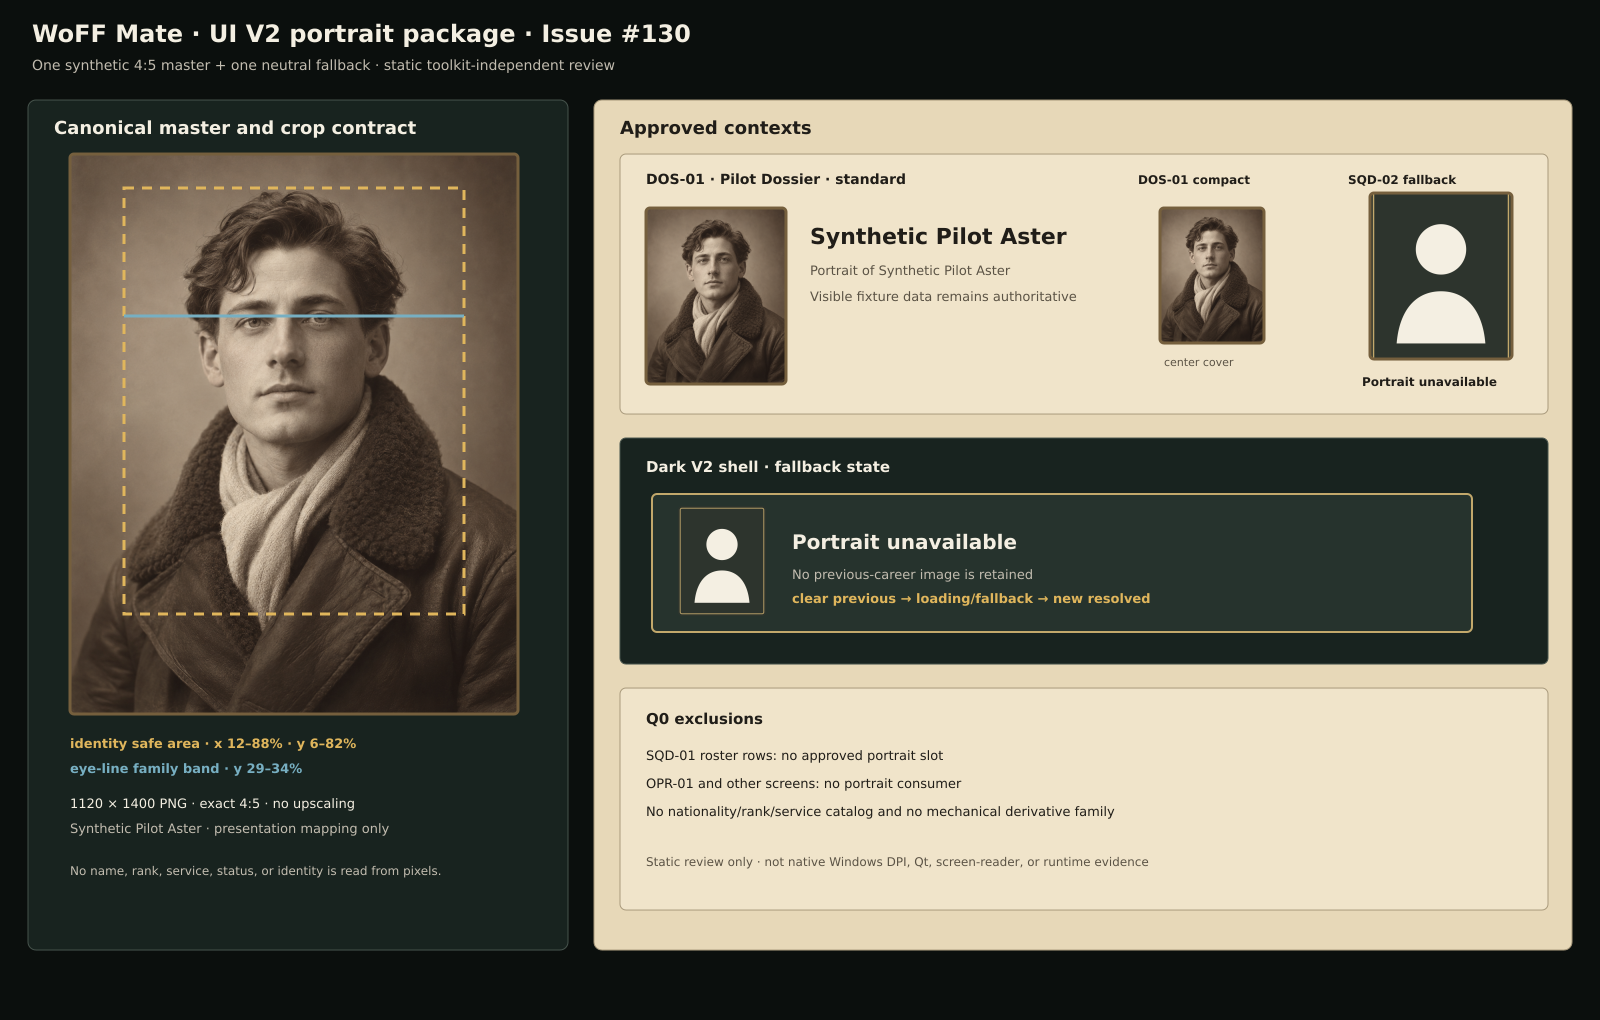
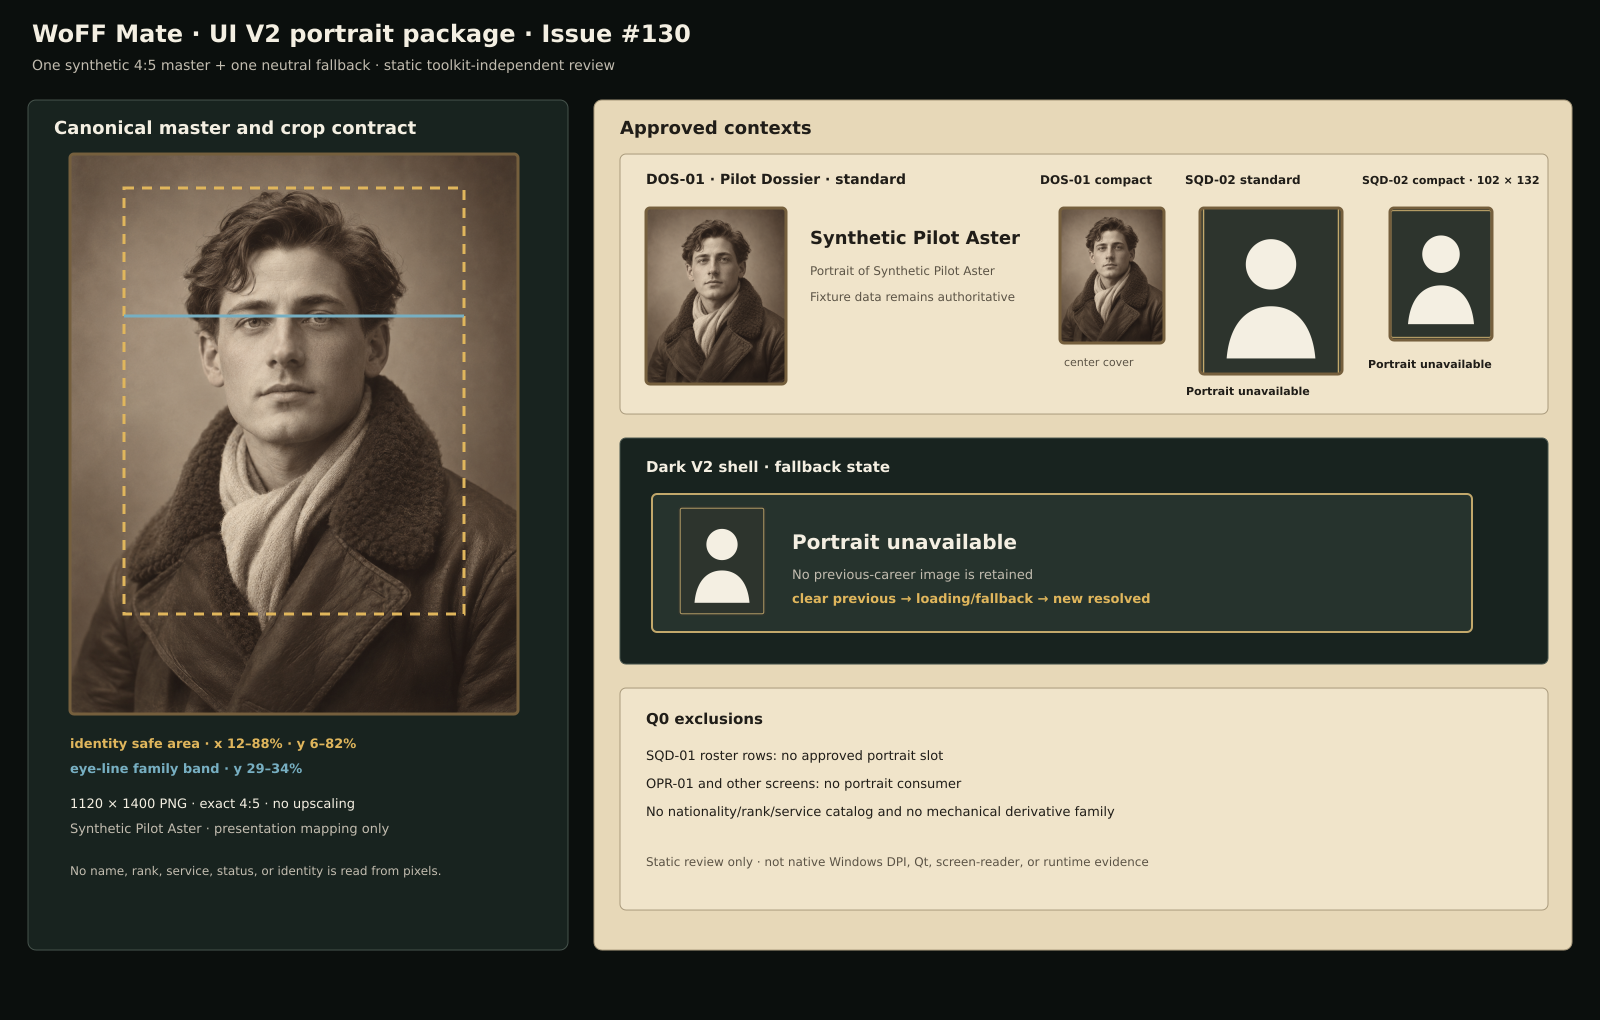
fix: close UI portrait provenance and evidence gaps (#130)

Changed region(s): [[0.5, 0.152, 0.9688, 0.3951]]

diff --git a/tests/test_ui_portrait_assets.py b/tests/test_ui_portrait_assets.py
@@ -5,6 +5,7 @@ import json
 import re
 import struct
 import sys
+import zlib
 from pathlib import Path
 from xml.etree import ElementTree as ET
 
@@ -13,6 +14,9 @@ REPOSITORY_ROOT = Path(__file__).resolve().parents[1]
 ASSET_ROOT = REPOSITORY_ROOT / "woff" / "assets" / "ui" / "portraits"
 EVIDENCE_ROOT = (
     REPOSITORY_ROOT / "docs" / "ui" / "evidence" / "ui-v2-portraits-2026-09-24"
+)
+SOURCE_ORIGINAL = (
+    EVIDENCE_ROOT / "source" / "ui_portrait_synthetic_aster_original.png"
 )
 FIXTURE_CATALOG = REPOSITORY_ROOT / "woff" / "tests" / "fixtures" / "ui_states" / "catalog.json"
 SVG_NAMESPACE = "{http://www.w3.org/2000/svg}"
@@ -58,6 +62,97 @@ def _png_chunks(path: Path) -> tuple[tuple[int, int, int, int, int], list[str]]:
     assert offset == len(payload)
     assert ihdr is not None
     return ihdr, chunks
+
+
+def _png_chunk_payloads(path: Path) -> dict[str, list[bytes]]:
+    payload = path.read_bytes()
+    offset = 8
+    chunks: dict[str, list[bytes]] = {}
+    while offset < len(payload):
+        length = struct.unpack(">I", payload[offset : offset + 4])[0]
+        kind = payload[offset + 4 : offset + 8].decode("ascii")
+        chunks.setdefault(kind, []).append(payload[offset + 8 : offset + 8 + length])
+        offset += 12 + length
+    return chunks
+
+
+def _png_rgb_rows(path: Path) -> tuple[bytes, ...]:
+    payload = path.read_bytes()
+    offset = 8
+    width = height = 0
+    compressed = bytearray()
+    while offset < len(payload):
+        length = struct.unpack(">I", payload[offset : offset + 4])[0]
+        kind = payload[offset + 4 : offset + 8]
+        data = payload[offset + 8 : offset + 8 + length]
+        if kind == b"IHDR":
+            width, height, bit_depth, color_type, _, _, interlace = struct.unpack(
+                ">IIBBBBB", data
+            )
+            assert (bit_depth, color_type, interlace) == (8, 2, 0)
+        elif kind == b"IDAT":
+            compressed.extend(data)
+        offset += 12 + length
+
+    stride = width * 3
+    decoded = zlib.decompress(compressed)
+    assert len(decoded) == height * (stride + 1)
+    rows: list[bytes] = []
+    prior = bytearray(stride)
+    cursor = 0
+    for _ in range(height):
+        filter_type = decoded[cursor]
+        cursor += 1
+        raw = decoded[cursor : cursor + stride]
+        cursor += stride
+        row = bytearray(stride)
+        for index, value in enumerate(raw):
+            left = row[index - 3] if index >= 3 else 0
+            above = prior[index]
+            upper_left = prior[index - 3] if index >= 3 else 0
+            if filter_type == 0:
+                predictor = 0
+            elif filter_type == 1:
+                predictor = left
+            elif filter_type == 2:
+                predictor = above
+            elif filter_type == 3:
+                predictor = (left + above) // 2
+            else:
+                assert filter_type == 4
+                candidate = left + above - upper_left
+                distances = (
+                    abs(candidate - left),
+                    abs(candidate - above),
+                    abs(candidate - upper_left),
+                )
+                predictor = (left, above, upper_left)[distances.index(min(distances))]
+            row[index] = (value + predictor) & 0xFF
+        rows.append(bytes(row))
+        prior = row
+    return tuple(rows)
+
+
+def test_common_manifest_fields_follow_the_ui_asset_package_convention() -> None:
+    manifest = _manifest()
+    icon_manifest = json.loads(
+        (REPOSITORY_ROOT / "woff" / "assets" / "ui" / "icons" / "manifest.json").read_text(
+            encoding="utf-8"
+        )
+    )
+    assert manifest["schema_version"] == icon_manifest["schema_version"] == 1
+    assert manifest["package_id"] == "woff-mate-ui-v2-portraits"
+    assert manifest["package_id"] != icon_manifest["package_id"]
+    assert "manifest_version" not in manifest
+    for field in (
+        "canonical_source_type",
+        "source",
+        "theme_contract",
+        "shared_accessibility",
+        "prohibited_domain_uses",
+    ):
+        assert manifest[field]
+        assert icon_manifest[field]
 
 
 def test_q0_consumers_and_minimum_inventory_are_pinned() -> None:
@@ -120,6 +215,30 @@ def test_canonical_png_is_valid_exact_4_by_5_and_metadata_clean() -> None:
     assert compression == 0
     assert chunks[0] == "IHDR" and chunks[-1] == "IEND"
     assert not ({"tEXt", "zTXt", "iTXt", "tIME", "eXIf", "iCCP"} & set(chunks))
+
+
+def test_exact_generated_source_is_retained_and_matches_the_canonical_crop() -> None:
+    source = _manifest()["source"]
+    assert isinstance(source, dict)
+    assert source["id"] == "source.synthetic.aster.original"
+    assert source["synthetic"] is True
+    assert source["path"] == SOURCE_ORIGINAL.relative_to(REPOSITORY_ROOT).as_posix()
+    assert source["dimensions"] == [1122, 1402]
+    assert source["canonical_master_dimensions"] == [1120, 1400]
+    assert hashlib.sha256(SOURCE_ORIGINAL.read_bytes()).hexdigest() == source["sha256"]
+
+    canonical = ASSET_ROOT / "ui_portrait_synthetic_aster_master.png"
+    assert hashlib.sha256(canonical.read_bytes()).hexdigest() == source["canonical_master_sha256"]
+    source_ihdr, source_chunks = _png_chunks(SOURCE_ORIGINAL)
+    assert source_ihdr[:3] == (1122, 1402, 8)
+    assert source_ihdr[3] == 2
+    assert not ({"tEXt", "zTXt", "iTXt", "tIME", "eXIf", "iCCP"} & set(source_chunks))
+
+    source_rows = _png_rgb_rows(SOURCE_ORIGINAL)
+    canonical_rows = _png_rgb_rows(canonical)
+    assert len(source_rows) == 1402
+    assert len(canonical_rows) == 1400
+    assert tuple(row[3:-3] for row in source_rows[1:-1]) == canonical_rows
 
 
 def test_fallback_is_neutral_self_contained_vector_geometry() -> None:
@@ -190,6 +309,7 @@ def test_package_checksums_cover_every_delivered_file() -> None:
 def test_static_evidence_is_reproducible_and_truthfully_bounded() -> None:
     checksums = _checksums(EVIDENCE_ROOT / "SHA256SUMS")
     expected_dimensions = {
+        "source/ui_portrait_synthetic_aster_original.png": (1122, 1402),
         "contact-sheet.png": (1600, 1020),
         "scaling-matrix.png": (1500, 1310),
     }
@@ -200,10 +320,12 @@ def test_static_evidence_is_reproducible_and_truthfully_bounded() -> None:
         ihdr, chunks = _png_chunks(path)
         assert ihdr[:2] == expected_dimensions[relative]
         assert chunks[0] == "IHDR" and chunks[-1] == "IEND"
-        payload = path.read_bytes().lower()
-        assert b"/workspace/" not in payload
-        assert b"\\users\\" not in payload
-        assert b"c:\\" not in payload
+        chunk_payloads = _png_chunk_payloads(path)
+        assert not ({"zTXt", "iTXt", "eXIf"} & set(chunk_payloads))
+        text_metadata = b"\n".join(chunk_payloads.get("tEXt", [])).lower()
+        assert b"/workspace/" not in text_metadata
+        assert b"\\users\\" not in text_metadata
+        assert b"c:\\" not in text_metadata
 
     readme = (EVIDENCE_ROOT / "README.md").read_text(encoding="utf-8")
     for profile in ("100%", "125%", "150%", "200%"):
@@ -215,6 +337,8 @@ def test_static_evidence_is_reproducible_and_truthfully_bounded() -> None:
     assert "TemporaryDirectory" in generator
     assert 'shutil.which("inkscape")' in generator
     assert "image_gen" not in generator
+    assert '"SQD-02 compact · 102 × 132"' in generator
+    assert "not exhaustive" in generator
 
 
 def test_package_data_and_runtime_dependencies_preserve_boundary() -> None:
@@ -238,3 +362,4 @@ def test_package_data_and_runtime_dependencies_preserve_boundary() -> None:
         "assets/ui/portraits/SHA256SUMS",
     ):
         assert pattern in package_data
+    assert "docs/ui/evidence" not in " ".join(package_data)

diff --git a/scripts/generate_ui_portrait_evidence.py b/scripts/generate_ui_portrait_evidence.py
@@ -141,8 +141,9 @@ def _contact_sheet(master_href: str, fallback_href: str) -> ET.Element:
     _sources(defs, master_href, fallback_href)
     _clip(defs, "master", 70, 154, 448, 560)
     _clip(defs, "dossier", 646, 208, 140, 176)
-    _clip(defs, "compact", 1160, 208, 104, 135)
-    _clip(defs, "fallback", 1370, 193, 142, 166)
+    _clip(defs, "compact", 1060, 208, 104, 135)
+    _clip(defs, "sqd-standard", 1200, 208, 142, 166)
+    _clip(defs, "sqd-compact", 1390, 208, 102, 132)
     _clip(defs, "dark-fallback", 678, 506, 88, 110)
 
     _add(root, "rect", width=width, height=height, fill="#0B0F0D")
@@ -168,19 +169,24 @@ def _contact_sheet(master_href: str, fallback_href: str) -> ET.Element:
     _text(root, "DOS-01 · Pilot Dossier · standard", 646, 184, fill="#201D18", size=14, weight=600)
     _asset(root, "master-source", 646, 208, 140, 176, clip_id="dossier")
     _frame(root, 646, 208, 140, 176)
-    _text(root, "Synthetic Pilot Aster", 810, 244, fill="#201D18", size=22, weight=600)
-    _text(root, "Portrait of Synthetic Pilot Aster", 810, 275, fill="#5B5345", size=13)
-    _text(root, "Visible fixture data remains authoritative", 810, 301, fill="#5B5345", size=13)
+    _text(root, "Synthetic Pilot Aster", 810, 244, fill="#201D18", size=18, weight=600)
+    _text(root, "Portrait of Synthetic Pilot Aster", 810, 275, fill="#5B5345", size=12)
+    _text(root, "Fixture data remains authoritative", 810, 301, fill="#5B5345", size=12)
 
-    _text(root, "DOS-01 compact", 1138, 184, fill="#201D18", size=12, weight=600)
-    _asset(root, "master-source", 1160, 208, 104, 135, clip_id="compact")
-    _frame(root, 1160, 208, 104, 135)
-    _text(root, "center cover", 1164, 366, fill="#5B5345", size=11)
+    _text(root, "DOS-01 compact", 1040, 184, fill="#201D18", size=12, weight=600)
+    _asset(root, "master-source", 1060, 208, 104, 135, clip_id="compact")
+    _frame(root, 1060, 208, 104, 135)
+    _text(root, "center cover", 1064, 366, fill="#5B5345", size=11)
 
-    _text(root, "SQD-02 fallback", 1348, 184, fill="#201D18", size=12, weight=600)
-    _asset(root, "fallback-source", 1370, 193, 142, 166, clip_id="fallback")
-    _frame(root, 1370, 193, 142, 166)
-    _text(root, "Portrait unavailable", 1362, 386, fill="#201D18", size=12, weight=600)
+    _text(root, "SQD-02 standard", 1185, 184, fill="#201D18", size=12, weight=600)
+    _asset(root, "fallback-source", 1200, 208, 142, 166, clip_id="sqd-standard")
+    _frame(root, 1200, 208, 142, 166)
+    _text(root, "Portrait unavailable", 1186, 395, fill="#201D18", size=11, weight=600)
+
+    _text(root, "SQD-02 compact · 102 × 132", 1362, 184, fill="#201D18", size=11, weight=600)
+    _asset(root, "fallback-source", 1390, 208, 102, 132, clip_id="sqd-compact")
+    _frame(root, 1390, 208, 102, 132)
+    _text(root, "Portrait unavailable", 1368, 368, fill="#201D18", size=11, weight=600)
 
     _add(root, "rect", x=620, y=438, width=928, height=226, rx=6, fill="#18231F", stroke="#46534C")
     _text(root, "Dark V2 shell · fallback state", 646, 472, fill="#F4EFE2", size=15, weight=600)
@@ -212,7 +218,7 @@ def _scaling_matrix(master_href: str, fallback_href: str) -> ET.Element:
 
     _add(root, "rect", width=width, height=height, fill="#111614")
     _text(root, "Static Windows logical-profile equivalents", 32, 42, fill="#F4EFE2", size=24, weight=600)
-    _text(root, "140 × 176 logical DOS-01 slot scaled to 100 / 125 / 150 / 200%; no native DPI claim", 32, 72, fill="#C2BCAF", size=14)
+    _text(root, "Representative DOS-01 standard slot only · 100 / 125 / 150 / 200% static equivalents · not exhaustive", 32, 72, fill="#C2BCAF", size=14)
     _text(root, "Resolved synthetic exemplar", 254, 106, fill="#F4EFE2", size=15, weight=600)
     _text(root, "Neutral fallback", 802, 106, fill="#F4EFE2", size=15, weight=600)
 
@@ -257,14 +263,20 @@ def _write_png(path: Path, root: ET.Element) -> None:
 
 
 def _write_checksums(paths: tuple[Path, ...]) -> None:
-    lines = [f"{hashlib.sha256(path.read_bytes()).hexdigest()}  {path.name}" for path in paths]
+    lines = [
+        f"{hashlib.sha256(path.read_bytes()).hexdigest()}  {path.relative_to(EVIDENCE_ROOT).as_posix()}"
+        for path in paths
+    ]
     (EVIDENCE_ROOT / "SHA256SUMS").write_text("\n".join(lines) + "\n", encoding="ascii")
 
 
 def main() -> None:
     master = ASSET_ROOT / "ui_portrait_synthetic_aster_master.png"
     fallback = ASSET_ROOT / "ui_portrait_unavailable.svg"
-    for required in (master, fallback):
+    original_source = (
+        EVIDENCE_ROOT / "source" / "ui_portrait_synthetic_aster_original.png"
+    )
+    for required in (master, fallback, original_source):
         if not required.is_file():
             raise FileNotFoundError(required.name)
     master_href = _data_uri(master, "image/png")
@@ -274,7 +286,7 @@ def main() -> None:
     scaling_matrix = EVIDENCE_ROOT / "scaling-matrix.png"
     _write_png(contact_sheet, _contact_sheet(master_href, fallback_href))
     _write_png(scaling_matrix, _scaling_matrix(master_href, fallback_href))
-    _write_checksums((contact_sheet, scaling_matrix))
+    _write_checksums((original_source, contact_sheet, scaling_matrix))
 
 
 if __name__ == "__main__":

diff --git a/docs/ui/evidence/ui-v2-portraits-2026-09-24/README.md b/docs/ui/evidence/ui-v2-portraits-2026-09-24/README.md
@@ -1,12 +1,14 @@
 # UI V2 portrait review evidence
 
 Issue: #130
-Evidence revision: `UIV2-PORTRAITS-2026-09-24-1`
+Evidence revision: `UIV2-PORTRAITS-2026-09-24-2`
 
 This directory contains deterministic, sanitized, toolkit-independent review
 surfaces generated from the committed portrait package. It contains no player
 identity, real campaign data, WoFF screenshot, private path, database content,
 log, parser payload, configuration secret, or activation/license information.
+The `source/` subdirectory separately preserves the exact generated original as
+provenance evidence; it is not a runtime asset or production derivative.
 
 ## Coverage
 
@@ -15,14 +17,14 @@ log, parser payload, configuration secret, or activation/license information.
 - the canonical 1120 × 1400 synthetic master with the documented identity safe
   area and eye-line band;
 - the standard 140 × 176 and compact 104 × 135 `DOS-01` slots;
-- the 142 × 166 `SQD-02` fallback region;
+- the standard 142 × 166 and compact 102 × 132 `SQD-02` fallback regions;
 - resolved and unavailable treatments on paper and dark V2 surfaces;
 - the required career-switch sequence; and
 - the deliberate absence of portraits from `SQD-01`, `OPR-01`, and other
   unapproved consumers.
 
-`scaling-matrix.png` renders the standard `DOS-01` logical slot as static
-physical-size equivalents:
+`scaling-matrix.png` renders only the standard `DOS-01` logical slot as a
+representative static physical-size matrix:
 
 | Profile | Resolved/fallback slot |
 |---:|---:|
@@ -35,6 +37,9 @@ The two PNGs are disposable review composites, not production portrait
 derivatives. The generator embeds the exact canonical package bytes in a
 temporary self-contained SVG, rasterizes the complete review canvas, and
 discards the temporary source. It does not create a family of portrait sizes.
+The matrix is not exhaustive evidence for every declared consumer slot or every
+native Windows/Qt render size; the contact sheet provides the approved-slot
+coverage owned by this issue.
 
 ## Review boundary
 
@@ -53,6 +58,8 @@ dimensions and inspected after regeneration:
 - the face and entire head remain inside the documented identity safe area;
 - the 104 × 135 centered compact crop retains the face, hair, neck, and both
   shoulders without moving the focal point;
+- the 102 × 132 compact `SQD-02` fallback keeps the complete neutral head and
+  shoulders geometry and the visible `Portrait unavailable` treatment;
 - the resolved portrait remains legible in every 100–200% static profile;
 - the fallback keeps its head/shoulders silhouette and inner border clear in
   standard, compact, paper, and dark-shell contexts; and
@@ -65,6 +72,13 @@ The fallback silhouette (`#F4EFE2`) reaches 11.15:1 against its neutral tile
 
 ## Reproduction and integrity
 
+`source/ui_portrait_synthetic_aster_original.png` is the exact 1122 × 1402 RGB
+generation output (SHA-256
[1 lines of base64/hex data omitted]
+Removing exactly one pixel from each edge yields pixel content identical to the
+1120 × 1400 canonical master. The source is retained only for provenance and is
+deliberately outside `woff/` so package-data rules do not install it.
+
 Regenerate from the repository root:
 
 ```bash
@@ -74,5 +88,5 @@ python -I -S scripts/generate_ui_portrait_evidence.py
 The generator uses the Python standard library, the two committed canonical
 assets, and the Inkscape CLI. Revision 1 was rendered with Inkscape 1.2.2;
 another renderer version may produce byte-different antialiasing and requires
-fresh visual review before checksums are updated. `SHA256SUMS` covers the two
-generated PNG review surfaces.
+fresh visual review before checksums are updated. `SHA256SUMS` covers the exact
+original source and both generated PNG review surfaces.

diff --git a/woff/assets/ui/portraits/GENERATION.md b/woff/assets/ui/portraits/GENERATION.md
@@ -5,13 +5,22 @@ Asset: `portrait.synthetic.aster`
 The source image was generated on 2026-09-24 with the built-in OpenAI image
 generation tool in ChatGPT Work. No input image, WoFF file, campaign screenshot,
 player photograph, historical-person reference, or third-party source image was
-used. The generated 1122 × 1402 PNG was center-cropped by one pixel on every
-edge to 1120 × 1400, then ancillary metadata was stripped. Pixels were not
-resampled or artificially enlarged.
+used. The exact generated 1122 × 1402 PNG is retained as provenance evidence at
+`docs/ui/evidence/ui-v2-portraits-2026-09-24/source/ui_portrait_synthetic_aster_original.png`
[1 lines of base64/hex data omitted]
+It is outside the runtime package and is not a production portrait derivative.
 
-The committed PNG is the canonical source. Image generation is a development
-provenance fact, not a production dependency or a reproducible runtime action.
-The exact committed bytes are pinned by `SHA256SUMS`.
+The canonical master was produced by center-cropping exactly one pixel from
+every source edge to 1120 × 1400, then stripping ancillary metadata. Pixels were
+not resampled or artificially enlarged. A pixel comparison between that exact
+source crop and the canonical master reports zero differing pixels. The manifest
+records both paths, dimensions, checksums, and their processing relationship.
+
+The committed 1120 × 1400 PNG remains the canonical UI master. The separately
+retained 1122 × 1402 original is provenance evidence only. Image generation is
+a development provenance fact, not a production dependency or a reproducible
+runtime action. Exact bytes are pinned by the package and evidence checksum
+manifests.
 
 ## Generation prompt
 

diff --git a/woff/assets/ui/portraits/README.md b/woff/assets/ui/portraits/README.md
@@ -87,6 +87,13 @@ rights, dimensions, crop rules, accessibility, and prohibited interpretations.
 `GENERATION.md` preserves the exact generation prompt and processing record.
 `SHA256SUMS` freezes every delivered package file.
 
+The exact 1122 × 1402 generated original is retained outside the installed
+package at
+`docs/ui/evidence/ui-v2-portraits-2026-09-24/source/ui_portrait_synthetic_aster_original.png`.
+It is provenance evidence, not another UI asset or production derivative. The
+manifest records its SHA-256, dimensions, relationship to the canonical master,
+and the canonical master's checksum.
+
 The synthetic master uses no input image or real person. The fallback was
 custom-authored as repository SVG geometry. Both are distributed under the
 repository MIT license; neither requires a third-party attribution or notice.
